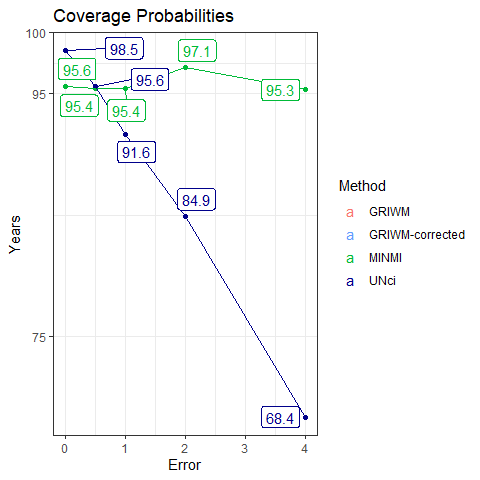
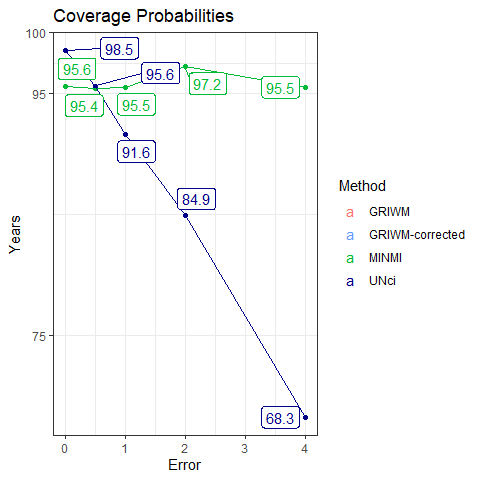
studying properties of MLEs

diff --git a/ResultsSimulations.md b/ResultsSimulations.md
@@ -57,16 +57,16 @@ head(results)
 ```
 
     ##   error_factor method    lower    point    upper point_runtime conf_int_runtime
-    ## 1          0.0  MINMI 14312.97 14934.48 15068.02  9.489059e-05     9.489059e-05
-    ## 2          0.0   UNci 14684.29 15073.05 15073.05  1.348789e-01     1.348789e-01
-    ## 3          0.5  MINMI 14335.93 14981.49 15444.01  7.917905e-02     7.917905e-02
-    ## 4          0.5   UNci 14522.90 14999.20 15184.93  5.947304e-02     5.947304e-02
-    ## 5          1.0  MINMI 14098.05 14829.92 15812.75  8.592701e-02     8.592701e-02
-    ## 6          1.0   UNci 14344.70 14950.77 15195.59  4.842782e-02     4.842782e-02
+    ## 1          0.0  MINMI 14312.97 14934.48 15068.02  8.392334e-05     8.392334e-05
+    ## 2          0.0   UNci 14684.29 15073.05 15073.05  3.243995e-02     3.243995e-02
+    ## 3          0.5  MINMI 14339.76 14984.56 15455.39  8.021498e-02     8.021498e-02
+    ## 4          0.5   UNci 14523.09 14999.31 15184.99  5.695987e-02     5.695987e-02
+    ## 5          1.0  MINMI 14089.58 14823.23 15792.84  8.206701e-02     8.206701e-02
+    ## 6          1.0   UNci 14344.55 14950.85 15195.65  5.069685e-02     5.069685e-02
     ##   B.lower B.point B.upper
     ## 1      NA      NA      NA
     ## 2     100     100     100
-    ## 3     102     100     100
+    ## 3     103     100     100
     ## 4     100     100     100
     ## 5     100     100     100
     ## 6     100     100     100
@@ -89,8 +89,8 @@ results %>%
     ##  1 MINMI           0         14959.       14339.       15092.
     ##  2 MINMI           0.5       14889.       14239.       15355.
     ##  3 MINMI           1         14768.       14032.       15748.
-    ##  4 MINMI           2         14554.       13556.       16695.
-    ##  5 MINMI           4         13921.       12212.       18682.
+    ##  4 MINMI           2         14554.       13556.       16693.
+    ##  5 MINMI           4         13921.       12213.       18689.
     ##  6 UNci            0         15097.       14709.       15097.
     ##  7 UNci            0.5       14961.       14434.       15192.
     ##  8 UNci            1         14874.       14223.       15211.
@@ -132,8 +132,8 @@ performance.point.tbl[[1]]
     ## # A tibble: 2 × 6
     ##   error_factor method MSE_000  bias variance_000 avg_runtime
     ##          <dbl> <chr>    <dbl> <dbl>        <dbl>       <dbl>
-    ## 1            0 MINMI       11   -41            9     0.00008
-    ## 2            0 UNci        18    97            9     0.00581
+    ## 1            0 MINMI       11   -41            9     0.0001 
+    ## 2            0 UNci        18    97            9     0.00864
 
 ``` r
 performance.point.tbl[[2]]
@@ -142,8 +142,8 @@ performance.point.tbl[[2]]
     ## # A tibble: 2 × 6
     ##   error_factor method MSE_000  bias variance_000 avg_runtime
     ##          <dbl> <chr>    <dbl> <dbl>        <dbl>       <dbl>
-    ## 1          0.5 UNci        24   -39           22      0.0538
-    ## 2          0.5 MINMI       50  -111           38      0.0964
+    ## 1          0.5 UNci        24   -39           22      0.0732
+    ## 2          0.5 MINMI       50  -111           38      0.115
 
 ``` r
 performance.point.tbl[[3]]
@@ -152,8 +152,8 @@ performance.point.tbl[[3]]
     ## # A tibble: 2 × 6
     ##   error_factor method MSE_000  bias variance_000 avg_runtime
     ##          <dbl> <chr>    <dbl> <dbl>        <dbl>       <dbl>
-    ## 1            1 UNci        52  -126           36      0.0582
-    ## 2            1 MINMI      226  -232          173      0.0971
+    ## 1            1 UNci        52  -126           36      0.0764
+    ## 2            1 MINMI      226  -232          173      0.117
 
 ``` r
 performance.point.tbl[[4]]
@@ -162,8 +162,8 @@ performance.point.tbl[[4]]
     ## # A tibble: 2 × 6
     ##   error_factor method MSE_000  bias variance_000 avg_runtime
     ##          <dbl> <chr>    <dbl> <dbl>        <dbl>       <dbl>
-    ## 1            2 UNci       146  -286           64      0.0626
-    ## 2            2 MINMI      709  -446          510      0.112
+    ## 1            2 UNci       146  -286           64      0.0820
+    ## 2            2 MINMI      709  -446          510      0.133
 
 ``` r
 performance.point.tbl[[5]]
@@ -172,8 +172,8 @@ performance.point.tbl[[5]]
     ## # A tibble: 2 × 6
     ##   error_factor method MSE_000  bias variance_000 avg_runtime
     ##          <dbl> <chr>    <dbl> <dbl>        <dbl>       <dbl>
-    ## 1            4 UNci      1022  -704          527      0.0631
-    ## 2            4 MINMI     4471 -1079         3310      0.118
+    ## 1            4 UNci      1022  -704          527      0.0840
+    ## 2            4 MINMI     4471 -1079         3310      0.143
 
 #### Pivot to make plots
 
@@ -192,12 +192,12 @@ performance.point.long
     ##  1   0   MINMI  MSE_000   10.7    
     ##  2   0   MINMI  Bias     -41.3    
     ##  3   0   MINMI  Var_000    8.96   
-    ##  4   0   MINMI  Runtime    0.00008
+    ##  4   0   MINMI  Runtime    0.0001 
     ##  5   0   UNci   MSE_000   18.1    
     ##  6   0   UNci   Bias      96.9    
     ##  7   0   UNci   Var_000    8.71   
-    ##  8   0   UNci   Runtime    0.00581
-    ##  9   0.5 MINMI  MSE_000   50.1    
+    ##  8   0   UNci   Runtime    0.00864
+    ##  9   0.5 MINMI  MSE_000   50.0    
     ## 10   0.5 MINMI  Bias    -111.     
     ## # … with 30 more rows
 
@@ -337,18 +337,18 @@ performance.CI.long
 ```
 
     ## # A tibble: 30 × 4
-    ##    Error Method Metric        value
-    ##    <dbl> <chr>  <chr>         <dbl>
-    ##  1   0   MINMI  Coverage   95.6    
-    ##  2   0   MINMI  Width     753.     
-    ##  3   0   MINMI  Runtime     0.00008
-    ##  4   0.5 MINMI  Coverage   95.4    
-    ##  5   0.5 MINMI  Width    1116.     
-    ##  6   0.5 MINMI  Runtime     0.0964 
-    ##  7   1   MINMI  Coverage   95.4    
-    ##  8   1   MINMI  Width    1716.     
-    ##  9   1   MINMI  Runtime     0.0971 
-    ## 10   2   MINMI  Coverage   97.1    
+    ##    Error Method Metric       value
+    ##    <dbl> <chr>  <chr>        <dbl>
+    ##  1   0   MINMI  Coverage   95.6   
+    ##  2   0   MINMI  Width     753.    
+    ##  3   0   MINMI  Runtime     0.0001
+    ##  4   0.5 MINMI  Coverage   95.4   
+    ##  5   0.5 MINMI  Width    1116.    
+    ##  6   0.5 MINMI  Runtime     0.115 
+    ##  7   1   MINMI  Coverage   95.5   
+    ##  8   1   MINMI  Width    1715.    
+    ##  9   1   MINMI  Runtime     0.117 
+    ## 10   2   MINMI  Coverage   97.2   
     ## # … with 20 more rows
 
 ## Coverage Probability
@@ -470,3 +470,32 @@ scenario, we have a right skewed distribution. Our fossils are mostly
 ![K-\theta](https://latex.codecogs.com/png.image?%5Cdpi%7B110%7D&space;%5Cbg_white&space;K-%5Ctheta "K-\theta"),
 but we do get some samples with super large measurement error variation.
 Perhaps these cause problems?
+
+#### Extra bonus: is the sampling distribution of MLE Gaussian for ![\sigma\>0](https://latex.codecogs.com/png.image?%5Cdpi%7B110%7D&space;%5Cbg_white&space;%5Csigma%3E0 "\sigma>0")?
+
+``` r
+errors=unique(results$error_factor)
+nError=length(errors)
+par(mfrow=c(5,3),mgp=c(1.75,0.75,0),mar=c(3,2,0,0),oma=c(0,2,2,0))
+for(iError in 1:nError)
+{
+  tmp=results%>%filter(method=="UNci" & error_factor==errors[iError]) %>% select(lower,point,upper)
+  hist(tmp$lower,xlab="theta_lower",ylab="",main="")
+  mtext(paste0("error_fac=",errors[iError]),2,line=2,font=2,cex=0.8)
+  if(iError==1)
+    mtext("theta_lower",3,font=2,cex=0.8)
+  hist(tmp$point,xlab="theta_hat",ylab="",main="")
+  if(iError==1)
+    mtext("theta_hat",3,font=2)
+  hist(tmp$point,xlab="theta_upper",ylab="",main="")
+  if(iError==1)
+    mtext("theta_upper",3,font=2)
+}
+```
+
+![](ResultsSimulations_files/figure-gfm/distTheta-1.png)<!-- -->
+
+Um, yes! Not at , as expected, because this is a sample minimum.
+
+Quantiles also seem to be approx normal with no outliers (except at
+where it looks like there is some non-convergence).
